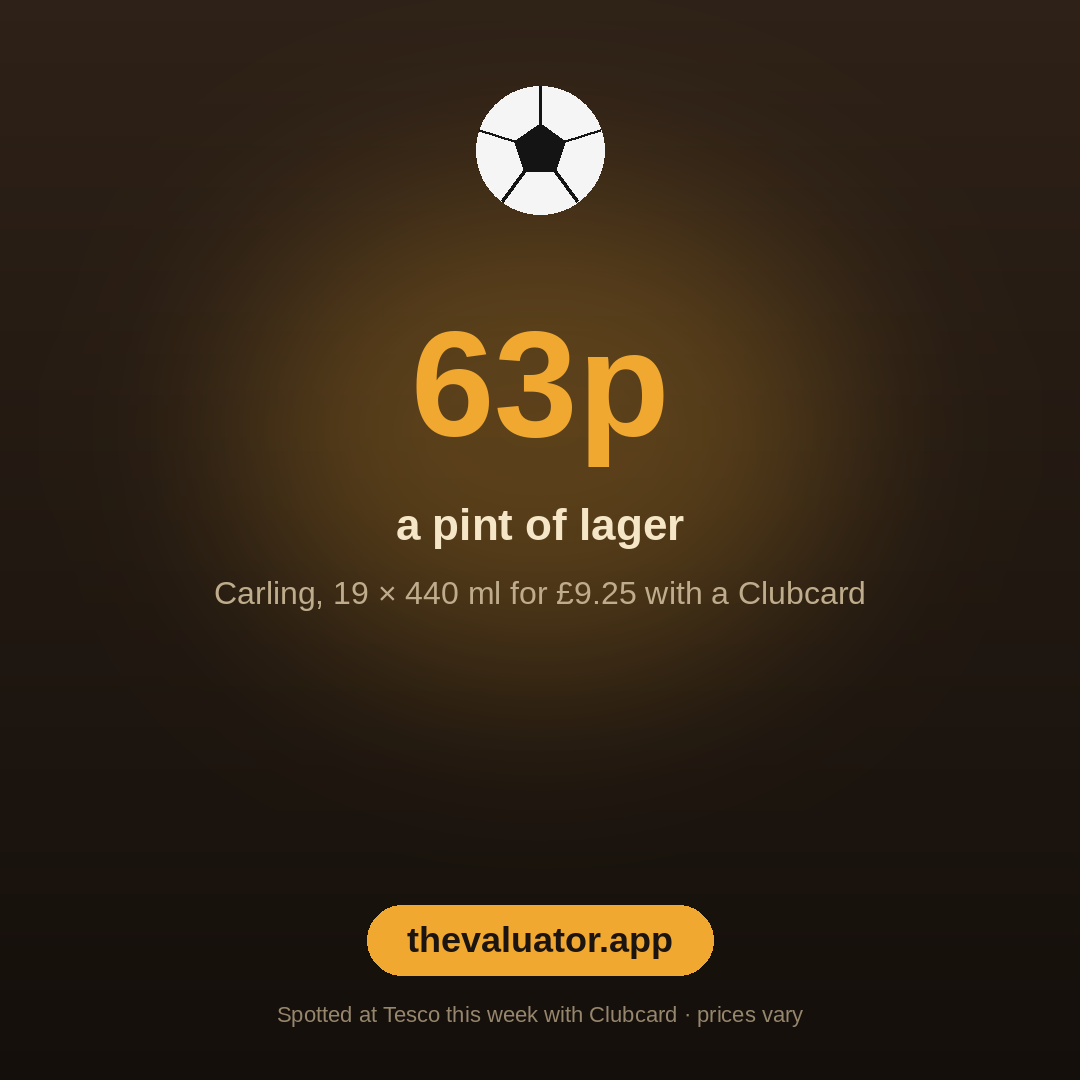
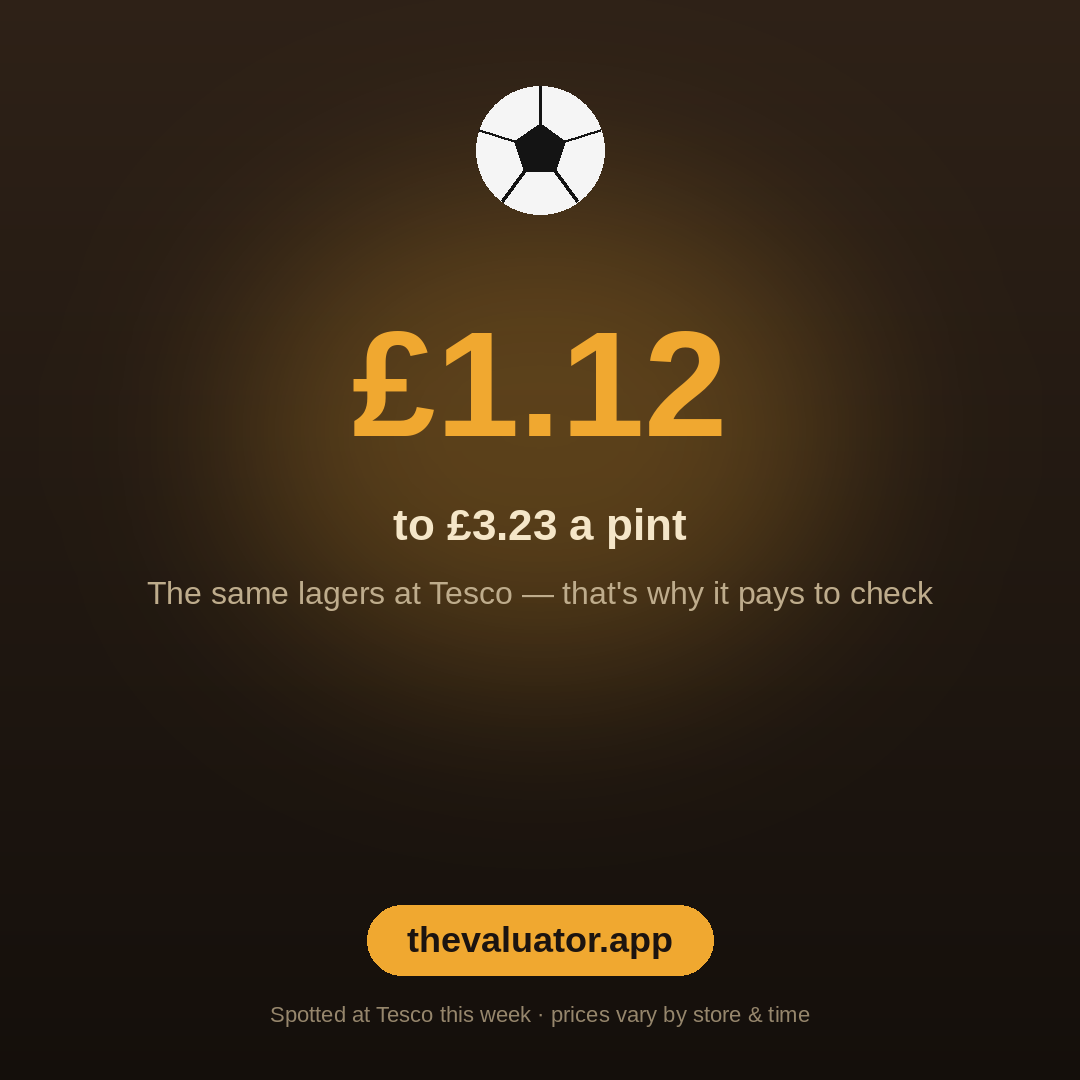
Correct Tesco data (Carling 10-pack, Moretti price) and reshape hero

Changed region(s): [[0.1528, 0.4583, 0.8556, 0.5806], [0.3056, 0.3056, 0.6722, 0.4278], [0.2444, 0.9167, 0.7333, 0.9472]]

diff --git a/make_tesco.py b/make_tesco.py
@@ -49,8 +49,8 @@ def ranked_card(fname, title, sub, rows, punch=None):
             roundRect(d, [bx, y + 26, bx + bw, y + 60], 17, fill=GREEN)
             d.text((bx + 12, y + 30), badge, font=bf, fill=(12, 28, 12))
     if punch:
-        ctext(d, top + len(rows) * rh + 36, punch,
-              font("LiberationSans-Bold.ttf", 40), GOLD_SOFT)
+        ctext(d, top + len(rows) * rh + 40, punch,
+              font("LiberationSans-Bold.ttf", 34), GOLD_SOFT)
     footer_disclaimer(d, "Prices spotted at Tesco this week · vary by store & time")
     img.save(fname); print("wrote", fname)
 
@@ -63,7 +63,7 @@ def hero_card(fname, big, line1, line2):
     ctext(d, 300, big, font("LiberationSans-Bold.ttf", 150), GOLD)
     ctext(d, 500, line1, font("LiberationSans-Bold.ttf", 44), CREAM)
     ctext(d, 575, line2, font("LiberationSans-Regular.ttf", 32), MUTED)
-    footer_disclaimer(d, "Spotted at Tesco this week with Clubcard · prices vary")
+    footer_disclaimer(d, "Spotted at Tesco this week · prices vary by store & time")
     img.save(fname); print("wrote", fname)
 
 
@@ -72,10 +72,10 @@ if __name__ == "__main__":
     ranked_card(
         "tesco-best.png",
         "MATCH-DAY BEST VALUE",
-        "spotted at Tesco  ·  Clubcard price per pint",
+        "spotted at Tesco  ·  best price per pint",
         [
-            ("Carling", "19 × 440 ml  ·  £9.25", 0.63, True, "CHEAPEST"),
-            ("Heineken", "15 × 440 ml  ·  £13.00", 1.12, False, ""),
+            ("Heineken", "15 × 440 ml  ·  £13.00", 1.12, True, "CHEAPEST"),
+            ("Carling", "18 × 440 ml  ·  £15.99", 1.15, False, ""),
             ("Stella", "18 × 440 ml  ·  £17.89", 1.28, False, ""),
             ("Madri", "15 × 440 ml  ·  £15.00", 1.29, False, ""),
             ("San Miguel", "10 × 440 ml  ·  £10.00", 1.29, False, ""),
@@ -86,18 +86,18 @@ if __name__ == "__main__":
     ranked_card(
         "tesco-trap.png",
         "SAME BEER, MIND THE PACK",
-        "Birra Moretti at Tesco — the 18-pack beat the 12",
+        "Birra Moretti at Tesco — £18 for 18, or £18.25 for 12",
         [
-            ("18 × 330 ml", "Birra Moretti  ·  £16.25", 1.55, True, "MORE BEER, LESS £"),
-            ("12 × 330 ml", "Birra Moretti  ·  £18.25", 2.62, False, "FEWER, COSTS MORE"),
+            ("18 × 330 ml", "Birra Moretti  ·  £18 with Clubcard", 1.72, True, "6 MORE BOTTLES"),
+            ("12 × 330 ml", "Birra Moretti  ·  £18.25", 2.62, False, "SAME £, LESS BEER"),
         ],
-        punch="That's £2 MORE for 6 FEWER bottles. Always check.",
+        punch="Near enough the same price — for 6 more bottles. Always check.",
     )
 
-    # C — cheapest pint hero
+    # C — the value spread (why it pays to check)
     hero_card(
         "tesco-pint.png",
-        "63p",
-        "a pint of lager",
-        "Carling, 19 × 440 ml for £9.25 with a Clubcard",
+        "£1.12",
+        "to £3.23 a pint",
+        "The same lagers at Tesco — that's why it pays to check",
     )